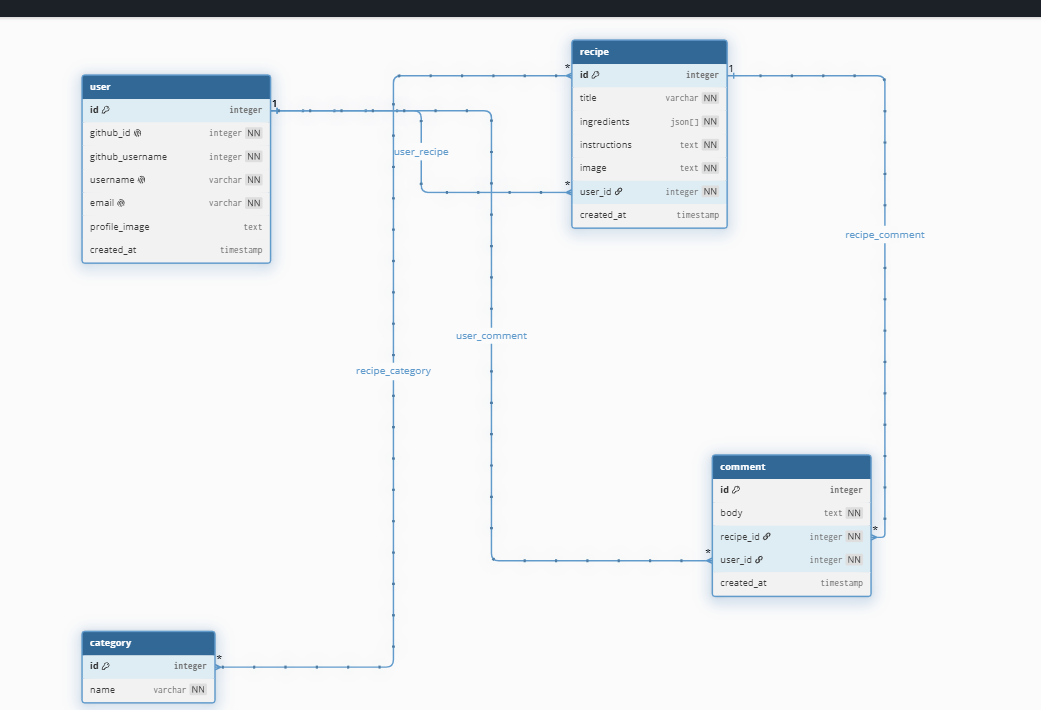
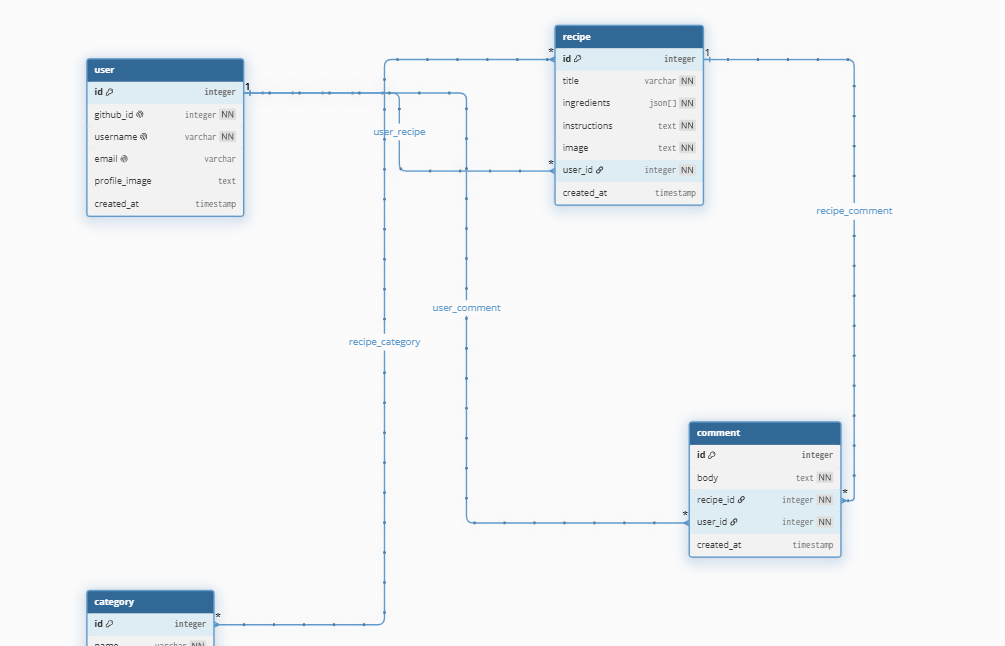
created category user joint table and comments table

Changed region(s): [[0.0, 0.0, 1.0, 1.0], [0.802, 0.3096, 0.8945, 0.3406]]

diff --git a/server/config/reset.ts b/server/config/reset.ts
@@ -19,11 +19,12 @@ const userData: userDataType[] = JSON.parse(String(userFile)) as userDataType[]
 
 const dropAllTables = async() => {
     const dropAllTablesQuery =  `
-    DROP TABLE IF EXISTS recipe_categories;
+    DROP TABLE IF EXISTS recipes_categories;
+    DROP TABLE IF EXISTS comments;
     DROP TABLE IF EXISTS recipes;
     DROP TABLE IF EXISTS categories;
-    DROP TABLE IF EXISTS comments;
     DROP TABLE IF EXISTS users;
+ 
     `
     try{
         const res =  await pool.query(dropAllTablesQuery)
@@ -161,6 +162,48 @@ const seedRecipeTable = async() => {
     })
 }
 
+const createCommentsTable = async() => {
+    const createCommentsTableQuery = `
+    CREATE TABLE IF NOT EXISTS comments(
+        id serial PRIMARY KEY,
+        body text NOT NULL,
+        recipe_id integer NOT NULL,
+        user_id integer NOT NULL,
+        created_at TIMESTAMPTZ DEFAULT now(),
+        FOREIGN KEY(recipe_id) REFERENCES recipes(id),
+        FOREIGN KEY(user_id) REFERENCES users(id)
+
+    )
+    `
+     try{
+        const res = await pool.query(createCommentsTableQuery)
+        console.log("Comments table created sucessfully")
+    }
+    catch(error){
+        console.error("Error creating comments table: ", error)
+    }
+}
+
+const createRecipesCategoriesTable = async() => {
+    const createRecipesCategoriesTableQuery = `
+        CREATE TABLE IF NOT EXISTS recipes_categories(
+            category_id int NOT NULL,
+            recipe_id int NOT NULL,
+            PRIMARY KEY(category_id, recipe_id),
+            FOREIGN KEY(category_id) REFERENCES categories(id) ON UPDATE CASCADE,
+            FOREIGN KEY(recipe_id) REFERENCES recipes(id) ON UPDATE CASCADE
+
+        )
+    `
+      try{
+        const res = await pool.query(createRecipesCategoriesTableQuery)
+        console.log("recipes_categories table created sucessfully")
+    }
+    catch(error){
+        console.error("Error creating recipes_categories table: ", error)
+    }
+
+}
 
 const resetDatabase = async() => {
     await dropAllTables()
@@ -170,6 +213,10 @@ const resetDatabase = async() => {
     await seedCategoriesTable()
     await createRecipeTable()
     await seedRecipeTable()
+    await createRecipesCategoriesTable()
+    await createCommentsTable()
+
+    
 }
 
 resetDatabase()

diff --git a/planning/entity_relationship_diagram.md b/planning/entity_relationship_diagram.md
@@ -6,9 +6,8 @@ Reference the Creating an Entity Relationship Diagram final project guide in the
 Table user{  
   id integer [primary key]  
   github_id integer unique [not null]  
-  github_username integer [not null]  
   username varchar unique [not null]  
-  email varchar unique [not null]  
+  email varchar unique
   profile_image text   
   created_at timestamp   
 }
@@ -52,4 +51,4 @@ Ref recipe_comment: comment.recipe_id > recipe.id
 
 ## Add the Entity Relationship Diagram  
 
-![ERD](<erd.png>)
+![ERD](<erd>.png>)